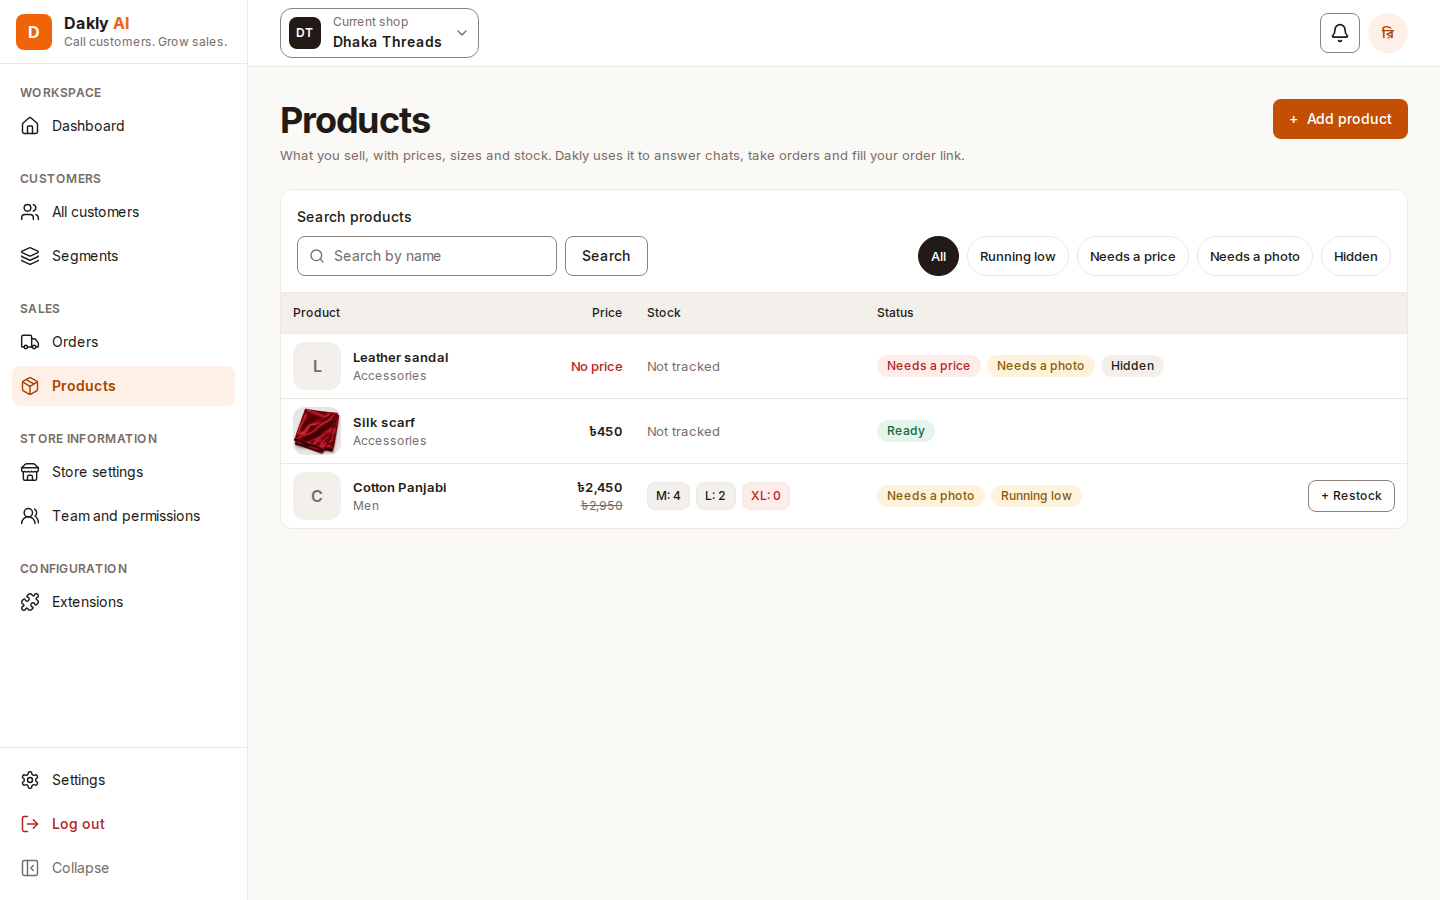
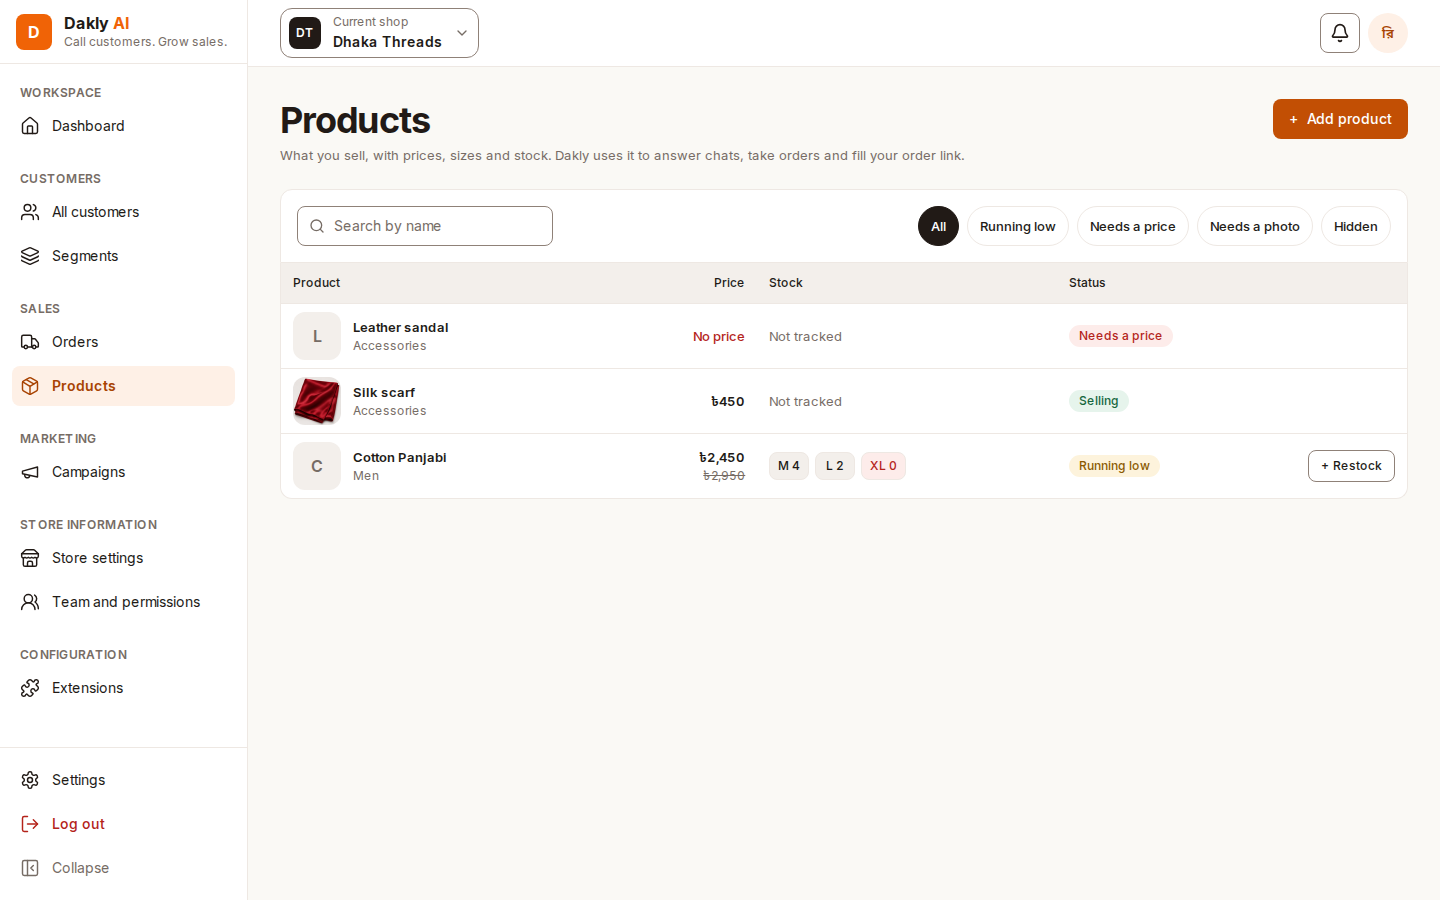
fix(web-7): address review feedback on products list

diff --git a/apps/web/src/features/products/components/product-list.tsx b/apps/web/src/features/products/components/product-list.tsx
@@ -146,9 +146,9 @@ function ProductIdentity({ product, query }: ProductPartProps & { query: Product
   );
 }
 
-function getProductProfit(product: ProductResponse): string | null {
+function firstVariantProfitPercent(product: ProductResponse): string | null {
   const variant = product.variants.find((v) => v.costPoisha !== null && v.pricePoisha > 0);
-  if (!variant || variant.costPoisha === null || variant.pricePoisha <= 0) return null;
+  if (!variant || variant.costPoisha === null) return null;
   const profit = Math.round(
     ((variant.pricePoisha - variant.costPoisha) / variant.pricePoisha) * 100,
   );
@@ -160,7 +160,7 @@ function ProductPrice({ product }: ProductPartProps) {
   const minimum = Math.min(...prices),
     maximum = Math.max(...prices);
   if (maximum === 0) return <span className="font-medium text-danger">No price</span>;
-  const profit = getProductProfit(product);
+  const profit = firstVariantProfitPercent(product);
   return (
     <div className="space-y-0.5">
       <span className="font-semibold text-text">
@@ -178,64 +178,50 @@ function ProductPrice({ product }: ProductPartProps) {
   );
 }
 
-function stockBadgeVariant(available: number): 'danger' | 'warning' | 'neutral' {
+function stockBadgeVariant(available: number): 'danger' | 'neutral' {
   if (available <= 0) return 'danger';
-  if (available <= 2) return 'warning';
   return 'neutral';
 }
 
 function variantStockColorClass(available: number) {
   if (available <= 0) return 'bg-danger-soft text-danger border-border hover:bg-danger-soft/80';
-  if (available <= 2) return 'bg-warning-soft text-warning border-border hover:bg-warning-soft/80';
   return 'bg-surface-muted text-text border-border hover:bg-surface-muted/80';
 }
 
 type ProductStockProps = ProductPartProps & Pick<ProductListProps, 'onAdjust'>;
 
 function ProductStock({ product, onAdjust }: ProductStockProps) {
-  const waiting = product.variants.reduce((sum, v) => sum + v.reserved, 0);
-  const waitingText =
-    waiting > 0 ? <p className="text-xs text-text-muted">{waiting} waiting to confirm</p> : null;
-
   if (!product.isStockTracked) {
-    return (
-      <div className="space-y-1">
-        <p className="text-sm text-text-muted">Not tracked</p>
-        {waitingText}
-      </div>
-    );
+    return <p className="text-sm text-text-muted">Not tracked</p>;
   }
 
   return (
-    <div className="space-y-1.5">
-      <div className="flex flex-wrap items-center gap-1.5">
-        {product.variants.map((variant) => {
-          const label = `${variant.title} ${variant.available}`;
-          return onAdjust ? (
-            <Button
-              key={variant.id}
-              variant="secondary"
-              className={cn(
-                'min-h-11 max-w-full rounded-md border px-3 py-2 text-sm font-medium wrap-anywhere tabular-nums md:h-7 md:min-h-7 md:px-2 md:py-0.5 md:text-xs',
-                variantStockColorClass(variant.available),
-              )}
-              aria-label={`Adjust stock for ${product.name}, ${variant.title}`}
-              onClick={() => onAdjust(variant.id)}
-            >
-              {label}
-            </Button>
-          ) : (
-            <Badge
-              key={variant.id}
-              variant={stockBadgeVariant(variant.available)}
-              className="min-h-11 max-w-full rounded-md border border-border px-3 py-2 text-sm font-medium wrap-anywhere tabular-nums md:h-7 md:min-h-7 md:px-2 md:py-0.5 md:text-xs"
-            >
-              {label}
-            </Badge>
-          );
-        })}
-      </div>
-      {waitingText}
+    <div className="flex flex-wrap items-center gap-1.5">
+      {product.variants.map((variant) => {
+        const label = `${variant.title} ${variant.available}`;
+        return onAdjust ? (
+          <Button
+            key={variant.id}
+            variant="secondary"
+            className={cn(
+              'min-h-11 max-w-full rounded-md border px-3 py-2 text-sm font-medium wrap-anywhere tabular-nums md:h-7 md:min-h-7 md:px-2 md:py-0.5 md:text-xs',
+              variantStockColorClass(variant.available),
+            )}
+            aria-label={`Adjust stock for ${product.name}, ${variant.title}`}
+            onClick={() => onAdjust(variant.id)}
+          >
+            {label}
+          </Button>
+        ) : (
+          <Badge
+            key={variant.id}
+            variant={stockBadgeVariant(variant.available)}
+            className="min-h-11 max-w-full rounded-md border border-border px-3 py-2 text-sm font-medium wrap-anywhere tabular-nums md:h-7 md:min-h-7 md:px-2 md:py-0.5 md:text-xs"
+          >
+            {label}
+          </Badge>
+        );
+      })}
     </div>
   );
 }

diff --git a/apps/web/src/features/products/components/products.spec.tsx b/apps/web/src/features/products/components/products.spec.tsx
@@ -422,7 +422,7 @@ describe('Product editor navigation', () => {
     expect(push).not.toHaveBeenCalled();
   });
 
-  it('shows profit percentage, size chips, waiting to confirm and restock button', async () => {
+  it('shows profit percentage, size chips, and restock button', async () => {
     const itemWithProfit: ProductResponse = {
       ...product,
       variants: [
@@ -441,7 +441,6 @@ describe('Product editor navigation', () => {
     const table = await screen.findByRole('table');
     expect(within(table).getByText('Men · UT-PJ-01')).toBeTruthy();
     expect(within(table).getByText('40% profit')).toBeTruthy();
-    expect(within(table).getByText('3 waiting to confirm')).toBeTruthy();
     expect(
       within(table).getByRole('button', { name: `Restock ${itemWithProfit.name}` }),
     ).toBeTruthy();
@@ -469,25 +468,18 @@ describe('Product editor navigation', () => {
     expect(within(table).getByText('Needs a price')).toBeTruthy();
   });
 
-  it('renders inline toolbar with category select, sort select and readiness chips', async () => {
+  it('renders inline toolbar with search input and all readiness chips', async () => {
     vi.stubGlobal('fetch', async () => response({ items: [product], nextCursor: null }));
     show({ limit: 50 });
     await screen.findByRole('table');
-    expect(screen.getByRole('combobox', { name: 'Category' })).toBeTruthy();
-    expect(screen.getByRole('combobox', { name: 'Sort' })).toBeTruthy();
+    expect(screen.getByRole('searchbox', { name: 'Search products' })).toBeTruthy();
+    expect(screen.getByPlaceholderText('Search by name')).toBeTruthy();
     expect(screen.getByRole('link', { name: 'All' })).toBeTruthy();
     expect(screen.getByRole('link', { name: 'Running low' })).toBeTruthy();
     expect(screen.getByRole('link', { name: 'Needs a price' })).toBeTruthy();
-    expect(screen.queryByRole('link', { name: 'Needs a photo' })).toBeNull();
-    expect(screen.queryByRole('link', { name: 'Hidden' })).toBeNull();
-  });
-
-  it('renders an Import button that is hidden', async () => {
-    vi.stubGlobal('fetch', async () => response({ items: [product], nextCursor: null }));
-    show({ limit: 50 });
-    await screen.findByRole('table');
-    const importBtn = screen.getByText('Import').closest('button');
-    expect(importBtn?.hasAttribute('hidden')).toBe(true);
-    expect(importBtn?.className).toContain('hidden');
+    expect(screen.getByRole('link', { name: 'Needs a photo' })).toBeTruthy();
+    expect(screen.getByRole('link', { name: 'Hidden' })).toBeTruthy();
+    expect(screen.queryByRole('combobox', { name: 'Category' })).toBeNull();
+    expect(screen.queryByRole('combobox', { name: 'Sort' })).toBeNull();
   });
 });

diff --git a/apps/web/src/features/products/components/products-screen.tsx b/apps/web/src/features/products/components/products-screen.tsx
@@ -1,5 +1,4 @@
 'use client';
-import { ArrowDownToLine } from 'lucide-react';
 import { useRouter } from 'next/navigation';
 import { useState } from 'react';
 
@@ -33,11 +32,20 @@ export function ProductsScreen({ query, adjust, productId, create }: ProductsScr
   return (
     <StorePage permission="canViewProducts">
       <main className="space-y-6 p-6 md:p-8">
-        <ProductsHeader
-          canEdit={canEdit}
-          onOpenImport={() => router.push(`${listHref}&import=1`)}
-          onOpenCreate={() => router.push(`${listHref}&create=1`)}
-        />
+        <header className="flex flex-wrap items-start justify-between gap-4">
+          <div>
+            <h1 className="text-2xl font-bold tracking-tight text-text">Products</h1>
+            <p className="mt-1 text-sm text-text-muted">
+              What you sell, with prices, sizes and stock. Dakly uses it to answer chats, take
+              orders and fill your order link.
+            </p>
+          </div>
+          {canEdit ? (
+            <Button onClick={() => router.push(`${listHref}&create=1`)}>
+              <span aria-hidden="true">+ </span>Add product
+            </Button>
+          ) : null}
+        </header>
         <section aria-label="Product catalogue" className="space-y-4 md:space-y-0">
           <ProductFilters key={`${query.search}|${query.readiness}`} query={query} />
           <ProductResults
@@ -71,37 +79,6 @@ export function ProductsScreen({ query, adjust, productId, create }: ProductsScr
         />
       </main>
     </StorePage>
-  );
-}
-
-type ProductsHeaderProps = {
-  canEdit?: boolean;
-  onOpenImport: () => void;
-  onOpenCreate: () => void;
-};
-
-function ProductsHeader({ canEdit, onOpenImport, onOpenCreate }: ProductsHeaderProps) {
-  return (
-    <header className="flex flex-wrap items-start justify-between gap-4">
-      <div>
-        <h1 className="text-2xl font-bold tracking-tight text-text">Products</h1>
-        <p className="mt-1 text-sm text-text-muted">
-          What you sell, with prices, sizes and stock. Dakly uses it to answer chats, take orders
-          and fill your order link.
-        </p>
-      </div>
-      {canEdit ? (
-        <div className="flex items-center gap-2">
-          <Button variant="secondary" className="hidden" hidden onClick={onOpenImport}>
-            <ArrowDownToLine aria-hidden="true" size={16} />
-            Import
-          </Button>
-          <Button onClick={onOpenCreate}>
-            <span aria-hidden="true">+ </span>Add product
-          </Button>
-        </div>
-      ) : null}
-    </header>
   );
 }
 

diff --git a/apps/web/e2e/products.spec.ts b/apps/web/e2e/products.spec.ts
@@ -110,7 +110,7 @@ test('filters product readiness, adjusts stock and drops drafts when the shop ch
     await page.goto('/products');
     await expect(page.getByRole('table', { name: 'Products' })).toBeVisible();
     await expect(page.getByRole('table').getByRole('row')).toHaveCount(4);
-    await expect(page.getByRole('table').getByText('Ready', { exact: true })).toBeVisible();
+    await expect(page.getByRole('table').getByText('Selling', { exact: true })).toBeVisible();
     await expect(page.getByRole('table').getByRole('img', { name: 'Silk scarf' })).toBeVisible();
     await expect
       .poll(() =>
@@ -128,7 +128,7 @@ test('filters product readiness, adjusts stock and drops drafts when the shop ch
     await expect(page.getByRole('table').getByRole('row')).toHaveCount(2);
     await capture('running-low');
     await page.getByRole('searchbox', { name: 'Search products' }).fill('Cotton');
-    await page.getByRole('button', { name: 'Search', exact: true }).click();
+    await page.getByRole('searchbox', { name: 'Search products' }).press('Enter');
     await expect(page).toHaveURL(/search=Cotton/);
     await expect(page.getByRole('link', { name: 'Running low', exact: true })).toHaveAttribute(
       'aria-current',
@@ -150,7 +150,7 @@ test('filters product readiness, adjusts stock and drops drafts when the shop ch
     await expect(page.getByRole('dialog')).toHaveCount(0);
     await expect(
       page.getByRole('button', { name: 'Adjust stock for Cotton Panjabi, XL' }),
-    ).toHaveText('XL: 10');
+    ).toHaveText('XL 10');
     await page.getByRole('button', { name: 'Adjust stock for Cotton Panjabi, XL' }).click();
     await page.getByLabel('Reason', { exact: true }).fill('Keep this draft on focus');
     await page.evaluate(() => window.dispatchEvent(new Event('focus')));
@@ -273,7 +273,7 @@ for (const mode of ['editable', 'read-only'] as const) {
         await close.click();
         await expect(page.getByRole('dialog')).toHaveCount(0);
       } else {
-        await expect(page.getByText(`${label}: 0`, { exact: true }).last()).toBeVisible();
+        await expect(page.getByText(`${label} 0`, { exact: true }).last()).toBeVisible();
         await expect(page.getByRole('button', { name: /Adjust stock/ })).toHaveCount(0);
       }
       await expect

diff --git a/apps/web/src/features/products/components/product-filters.tsx b/apps/web/src/features/products/components/product-filters.tsx
@@ -15,7 +15,13 @@ import { productsSearch } from '../api/products';
 import { readinessLabels } from '../product-labels';
 
 const searchSchema = productListQuerySchema.pick({ search: true });
-const readinessFilters = [undefined, 'running_low', 'needs_price'] as const;
+const readinessFilters = [
+  undefined,
+  'running_low',
+  'needs_price',
+  'needs_photo',
+  'hidden',
+] as const;
 
 type ProductFiltersProps = { query: ProductListQuery };
 
@@ -35,7 +41,6 @@ export function ProductFilters({ query }: ProductFiltersProps) {
           )}
         >
           <SearchField />
-          <FilterSelects />
           <Button type="submit" variant="secondary" className="sr-only">
             Search
           </Button>
@@ -63,45 +68,13 @@ function SearchField() {
         <Input
           id="product-search"
           type="search"
-          placeholder="Search name or code"
+          placeholder="Search by name"
           className="pl-9"
           {...form.register('search', {
             setValueAs: (value: string) => value.trim() || undefined,
           })}
         />
       </div>
-    </>
-  );
-}
-
-function FilterSelects() {
-  return (
-    <>
-      <Label htmlFor="product-category" className="sr-only">
-        Category
-      </Label>
-      <select
-        id="product-category"
-        aria-label="Category"
-        defaultValue=""
-        className="h-10 rounded-md border border-input-border bg-surface px-3 text-sm text-text focus-visible:outline-2 focus-visible:outline-offset-2 focus-visible:outline-focus"
-      >
-        <option value="">All categories</option>
-      </select>
-      <Label htmlFor="product-sort" className="sr-only">
-        Sort
-      </Label>
-      <select
-        id="product-sort"
-        aria-label="Sort"
-        defaultValue="best_selling"
-        className="h-10 rounded-md border border-input-border bg-surface px-3 text-sm text-text focus-visible:outline-2 focus-visible:outline-offset-2 focus-visible:outline-focus"
-      >
-        <option value="best_selling">Best selling</option>
-        <option value="newest">Newest</option>
-        <option value="price_asc">Price: Low to high</option>
-        <option value="price_desc">Price: High to low</option>
-      </select>
     </>
   );
 }

diff --git a/apps/web/src/features/products/components/product-readiness.tsx b/apps/web/src/features/products/components/product-readiness.tsx
@@ -1,8 +1,10 @@
 import type { ProductResponse } from '@dakly/contracts/products';
 import { Badge } from '@dakly/ui/badge';
 
+import { readinessLabels } from '../product-labels';
+
 type ProductReadinessProps = {
-  product: Pick<ProductResponse, 'readiness'> & Partial<Pick<ProductResponse, 'status'>>;
+  product: Pick<ProductResponse, 'readiness'>;
 };
 
 function getProductStatus(product: ProductReadinessProps['product']): {
@@ -10,13 +12,13 @@ function getProductStatus(product: ProductReadinessProps['product']): {
   variant: 'danger' | 'warning' | 'neutral' | 'success';
 } {
   if (product.readiness.includes('needs_price')) {
-    return { label: 'Needs a price', variant: 'danger' };
+    return { label: readinessLabels.needs_price, variant: 'danger' };
   }
-  if (product.status === 'hidden' || product.readiness.includes('hidden')) {
-    return { label: 'Hidden', variant: 'neutral' };
+  if (product.readiness.includes('hidden')) {
+    return { label: readinessLabels.hidden, variant: 'neutral' };
   }
   if (product.readiness.includes('running_low')) {
-    return { label: 'Running low', variant: 'warning' };
+    return { label: readinessLabels.running_low, variant: 'warning' };
   }
   return { label: 'Selling', variant: 'success' };
 }

diff --git a/apps/web/e2e/product-editor.spec.ts b/apps/web/e2e/product-editor.spec.ts
@@ -66,7 +66,7 @@ test('saves unfinished products, edits variants without losing stock and manages
       .toBeGreaterThan(0);
     await expect(
       page.getByRole('button', { name: `Adjust stock for ${name}, Default` }),
-    ).toHaveText('Default: 3');
+    ).toHaveText('Default 3');
     await productLink.click();
   }
   try {
